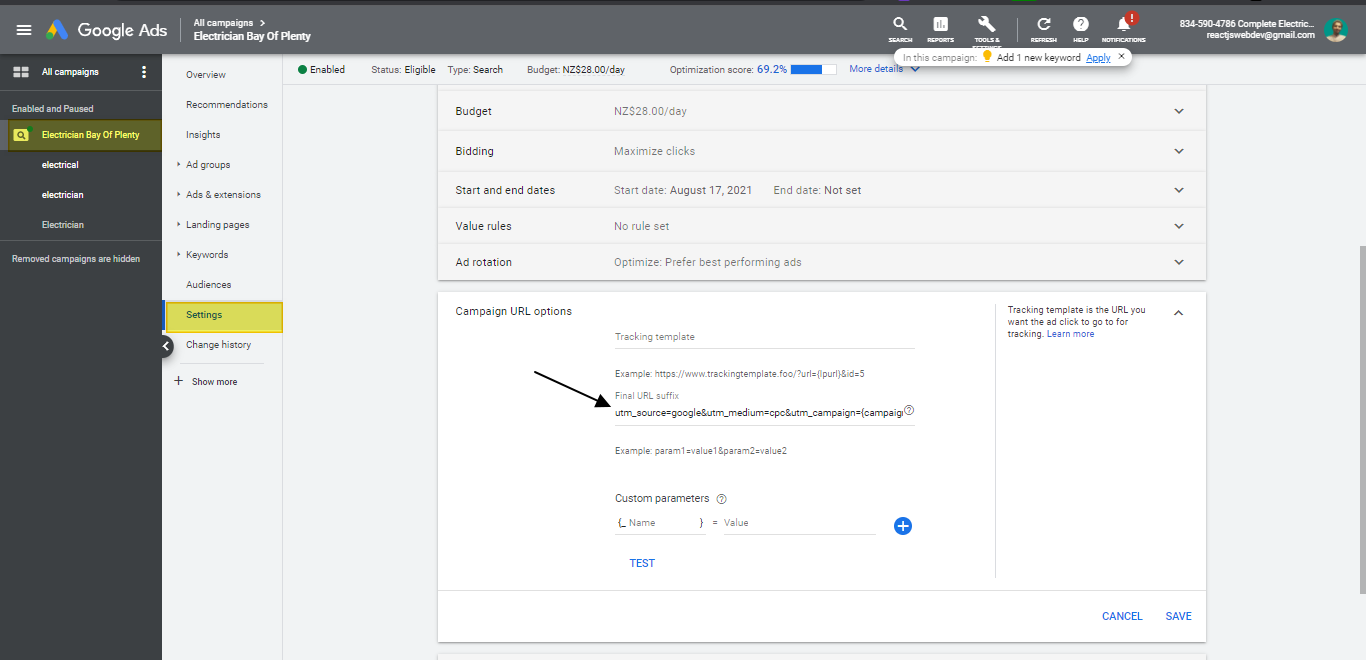
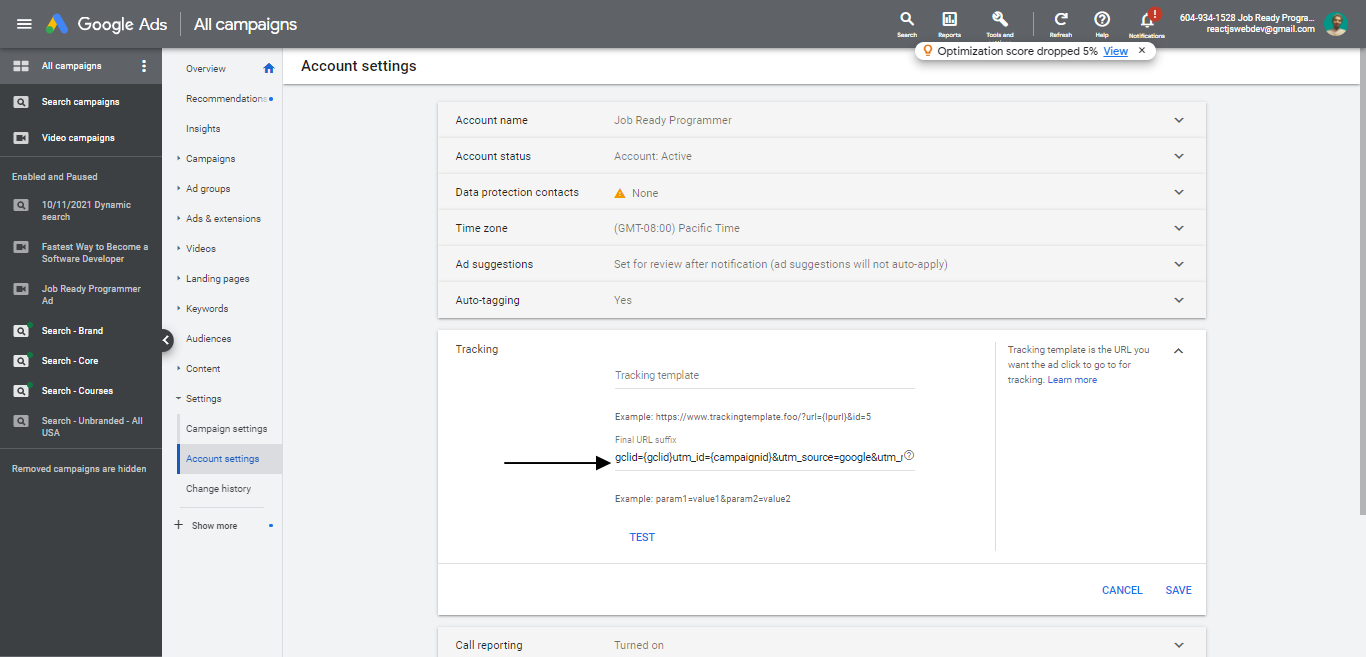
Updated URL Sufficx Blogs

diff --git a/data/blog/google-ads/google-ads-url-suffixes-utm-for-dynamic-paramters.md b/data/blog/google-ads/google-ads-url-suffixes-utm-for-dynamic-paramters.md
@@ -14,7 +14,9 @@ embedId: 'null'
 1. [Origin of the issue](#origin-of-the-issue)
 2. [Solution to the ATT](#solution-to-the-att)
 3. [UTM Code](#utm-code)
-4. [Notes](#notes)
+4. [URL Suffix Code](#url-suffix-code)
+5. [Tracking Template Code](#tracking-template-code)
+6. [Notes](#notes)
 
 ### Origin of the issue
 
@@ -30,15 +32,25 @@ There is no solution to fix the Google ads reporting / conversion tracking on Go
 
 ### UTM Code
 
-We need to update the URL code for all the google ads, we are running on google ads manager. Copy the code below and paste it under Google Campaign> Settings> Additional Settings> Campaign URL options> Final URL Suffix. Click on "TEST" to make sure everything is fine.
+We need to update the URL code for all the google ads, we are running on google ads manager. Copy the code below and paste it under Google Ads> Settings> Account Settings> Tracking Options> Final URL Suffix or Tracking template, depending on your override needs. Click on "TEST" to make sure everything is fine.
+
+### URL Suffix Code
+
+```
+gclid={gclid}utm_id={campaignid}&utm_source=google&utm_medium=cpc&utm_campaign={campaignid}&utm_term={adgroupid}&utm_content={creative}
+```
+
+![UTM Parameter Image](/static/blog/00009_1.png)
+
+### Tracking Template Code
 
 ```
 {lpurl}?utm_placement={ifcontent:{placement}}&utm_device={device}-{devicemodel}&utm_keyword={keyword}&utm_matchtype={matchtype}&utm_network={network}&utm_sourceid={sourceid}&utm_medium=cpc&utm_source=google&utm_campaign={campaignid}&utm_term={adgroupid}&utm_content={creative}&v2={targetid}&v3={gclid}
 
 ```
 
-![UTM Parameter Image](/static/blog/00009_1.png)
+![UTM Parameter Image](/static/blog/00009_2.png)
 
 ### Notes
 
-2. Do not add the UTM parameters Google Campaign> Settings> Additional Settings> Campaign URL options> Tracking Template
+1. Click on "TEST" to make sure everything is fine.
